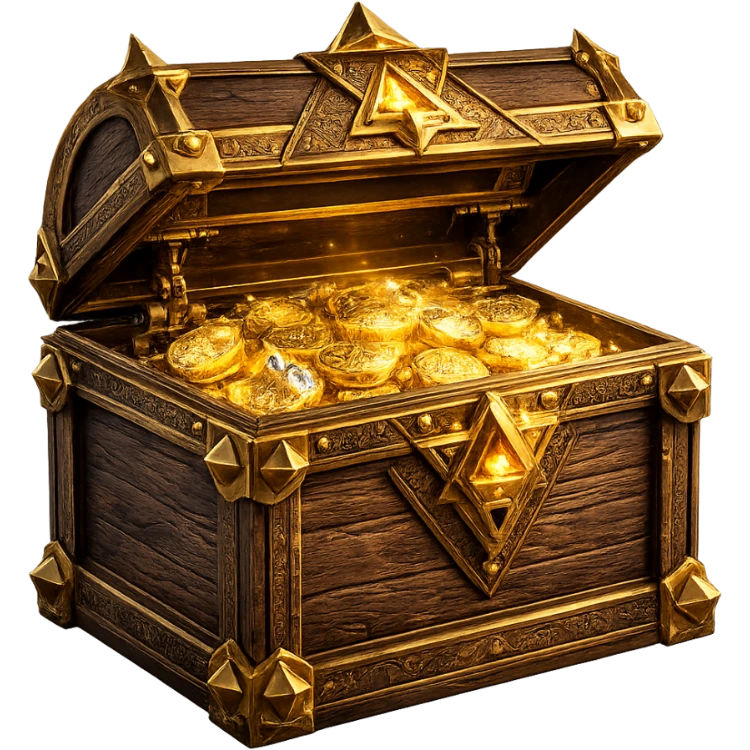
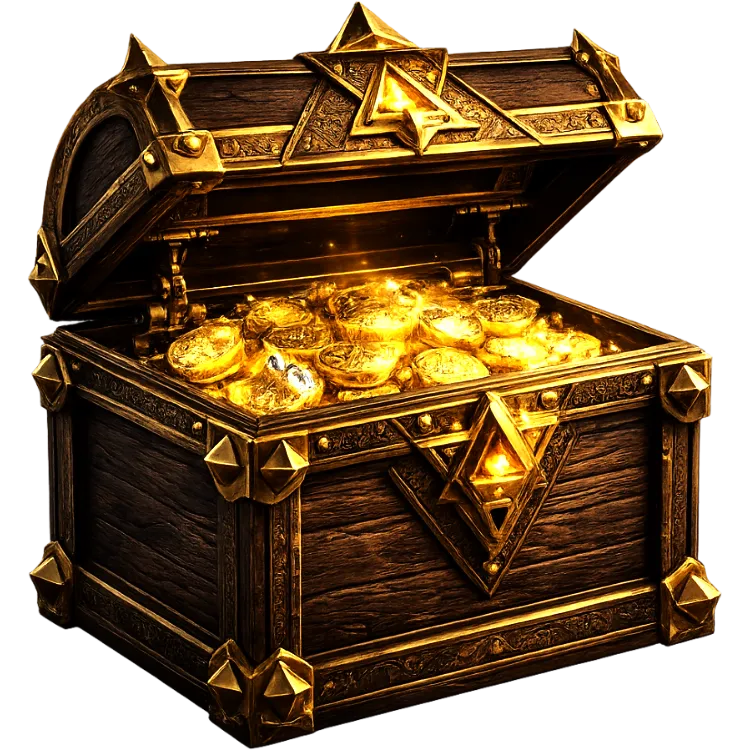
Make assigned public ID chips obvious and removable
Improves assigned public identity visibility and management across Runtime/Auth, Admin Dashboard, and Creator account settings. Adds clear primary/secondary chip rendering, clickable secondary-ID unassign flows with required reason notes, locked primary IDs, and polished inline assignment controls across `/economy`, `/progression`, `/users`, `/users/{user_code}`, `/public-identities`, and Creator `/account`.

diff --git a/css/creator-dashboard.css b/css/creator-dashboard.css
@@ -4450,6 +4450,57 @@ h3 {
   flex-wrap: wrap;
 }
 
+.creator-public-identity-chip {
+  display: inline-flex;
+  align-items: center;
+  gap: 5px;
+  min-height: 22px;
+  max-width: 100%;
+  padding: 2px 8px;
+  border: 1px solid rgba(56, 189, 248, 0.38);
+  border-radius: 999px;
+  background: rgba(14, 165, 233, 0.16);
+  color: #dff7ff;
+  font: inherit;
+  font-size: 11px;
+  line-height: 1.2;
+  letter-spacing: 0;
+  white-space: nowrap;
+}
+
+.creator-public-identity-chip span,
+.creator-public-identity-chip em {
+  font-size: 9px;
+  font-style: normal;
+  font-weight: 800;
+  text-transform: uppercase;
+  color: rgba(226, 232, 240, 0.74);
+}
+
+.creator-public-identity-chip.is-primary {
+  border-color: rgba(250, 204, 21, 0.38);
+  background: rgba(250, 204, 21, 0.12);
+  color: #fef3c7;
+}
+
+.creator-public-identity-chip.is-locked {
+  border-color: rgba(148, 163, 184, 0.3);
+  background: rgba(148, 163, 184, 0.12);
+  color: rgba(226, 232, 240, 0.82);
+}
+
+button.creator-public-identity-chip {
+  cursor: pointer;
+}
+
+button.creator-public-identity-chip:hover,
+button.creator-public-identity-chip:focus-visible {
+  border-color: rgba(56, 189, 248, 0.82);
+  background: rgba(14, 165, 233, 0.26);
+  outline: none;
+  box-shadow: 0 0 0 2px rgba(14, 165, 233, 0.2);
+}
+
 .platform-identity-row-main {
   display: grid;
   gap: 6px;

diff --git a/js/account-settings.js b/js/account-settings.js
@@ -1689,19 +1689,29 @@
         identity.assigned_at ? `Assigned: ${escapeHtml(identity.assigned_at)}` : "",
       ].filter(Boolean);
       const removable = !identity.primary && identity.removable_by_account_owner === true;
+      const chipTitle = [
+        identity.primary ? "Primary public identity" : "Assigned secondary public identity",
+        identity.assignment_source ? `Source: ${identity.assignment_source.replace(/[_-]+/g, " ")}` : "",
+        identity.assigned_at ? `Assigned: ${identity.assigned_at}` : "",
+        identity.source_platform ? `Platform: ${platformIdentityLabel(identity.source_platform)}` : "",
+        identity.source_user_id ? `Source user: ${identity.source_user_id}` : "",
+        identity.source_channel_scope ? `Scope: ${identity.source_channel_scope}` : "",
+      ].filter(Boolean).join(" · ");
+      const chipMarkup = identity.primary
+        ? `<span class="creator-public-identity-chip is-primary" title="${escapeHtml(chipTitle)}"><span aria-hidden="true">Locked</span>${escapeHtml(identity.identity_code)}<em>Primary</em></span>`
+        : removable
+          ? `<button class="creator-public-identity-chip is-secondary" type="button" title="${escapeHtml(`${chipTitle} · Click to unassign`)}" data-public-identity-unassign="${escapeHtml(identity.identity_code)}">${escapeHtml(identity.identity_code)}<em>Unassign</em></button>`
+          : `<span class="creator-public-identity-chip is-secondary is-locked" title="${escapeHtml(chipTitle)}">${escapeHtml(identity.identity_code)}<em>Assigned</em></span>`;
       return `
         <article class="platform-identity-row" data-public-identity-code="${escapeHtml(identity.identity_code)}">
           <div class="platform-identity-row-main">
             <div class="platform-identity-row-title">
-              <strong>${escapeHtml(identity.identity_code)}</strong>
+              ${chipMarkup}
               <span class="status-pill ${identity.primary ? "success" : "subtle"}">${escapeHtml(label)}</span>
               ${identity.protected || identity.primary ? `<span class="status-pill warning">Protected</span>` : ""}
             </div>
             <p>${sourceBits.join(" · ") || "StreamSuites account primary identity."}</p>
             <p class="account-note">${metaBits.join(" · ") || "No assignment metadata returned."}</p>
-          </div>
-          <div class="account-provider-actions">
-            ${removable ? `<button class="creator-button secondary danger" type="button" data-public-identity-unassign="${escapeHtml(identity.identity_code)}">Unassign</button>` : ""}
           </div>
         </article>
       `;
@@ -1737,13 +1747,18 @@
   async function unassignPublicIdentity(identityCode) {
     const identity = state.publicIdentities.find((item) => item.identity_code === identityCode);
     if (!identity || identity.primary || state.publicIdentitiesSaving) return;
-    if (!window.confirm(`Unassign public identity ${identity.identity_code} from this account? Historical ledger records are not deleted.`)) {
+    const reason = coerceText(window.prompt?.(`Unassign public identity ${identity.identity_code} from this account?\n\nHistorical ledger records are not deleted.\n\nRequired reason/note:`) || "");
+    if (!reason) {
+      setMessage("[data-public-identity-status=\"true\"]", "Unassign requires a reason/note.", "warning");
       return;
     }
     state.publicIdentitiesSaving = true;
     setMessage("[data-public-identity-status=\"true\"]", "Unassigning public identity through Runtime/Auth...", "neutral");
     try {
-      const payload = await requestJson(`${ACCOUNT_PUBLIC_IDENTITIES_ENDPOINT}/${encodeURIComponent(identity.identity_code)}`, { method: "DELETE" });
+      const payload = await requestJson(`${ACCOUNT_PUBLIC_IDENTITIES_ENDPOINT}/${encodeURIComponent(identity.identity_code)}`, {
+        method: "DELETE",
+        body: JSON.stringify({ reason })
+      });
       state.publicIdentities = (Array.isArray(payload?.identities) ? payload.identities : [])
         .map(normalizePublicIdentity)
         .filter(Boolean);

diff --git a/BUMP_NOTES.md b/BUMP_NOTES.md
@@ -2,6 +2,9 @@
 
 ## CURRENT VER= 0.4.2-alpha / PENDING VER= 0.4.3-alpha
 
+- Refined Creator `/account` public identity display to use compact chips. The primary public ID now renders as locked/non-removable, secondary assigned IDs render as removable chips only when Runtime/Auth marks them owner-removable, and self-service unassign now requires a reason/note sent to `DELETE /api/account/public-identities/{identity_code}` before refreshing the account identity list.
+- Human note: creators can clearly see which secondary public IDs are attached and must explain removals; primary IDs and historical ledgers remain protected.
+
 - Added Creator `/account` assigned public identity management through Runtime/Auth `GET /api/account/public-identities` and `DELETE /api/account/public-identities/{identity_code}`. The account page now shows the protected primary public ID, assigned secondary public IDs, source/platform and assignment metadata when returned, a compact roll-up explanation, and an unassign action only when the backend marks the secondary identity removable by the account owner.
 - Human note: creators can see which public/chat identities contribute to their StreamSuites account and can remove only safe secondary assignments; primary public IDs and historical ledger rows stay protected.
 

diff --git a/README.md b/README.md
@@ -56,7 +56,7 @@ flowchart TD
 - The `/wheels` route is now a real creator-owned wheel artifact manager that lists, creates, imports, edits, exports, and saves wheel artifacts only through the authoritative runtime/Auth wheel API.
 - The creator wheel manager now stays API-first and live via the runtime/Auth wheel SSE stream, so open `/wheels` tabs refresh saved list/editor state after create, import, and update events instead of waiting for stale mirrored exports or manual reloads.
 - The separate `/leaderboards` route is now the truthful creator-facing scaffold for future leaderboard artifacts, while legacy `/scoreboards` compatibility now resolves there instead of duplicating the wheel manager.
-- The account route now keeps integrations as a compact snapshot and link-out surface rather than the primary control center, while consuming Runtime/Auth contracts for removable manual platform aliases, assigned public identity ownership/unassignment, and owned scoped livechat XP roll-up settings.
+- The account route now keeps integrations as a compact snapshot and link-out surface rather than the primary control center, while consuming Runtime/Auth contracts for removable manual platform aliases, assigned public identity ownership/unassignment with required Creator-side reason prompts, and owned scoped livechat XP roll-up settings.
 - A dedicated `/integrations` hub now acts as the full-page creator readiness surface, while per-platform routes carry the actionable setup and management workflows.
 - Creator media editing now prefers upload-from-device for avatar and cover updates while preserving manual URL inputs as secondary paths.
 - Creator account settings currently surface canonical slug editing and visibility, StreamSuites public profile visibility, FindMeHere listing controls, truthful dual share previews, reserved media fields including background image URL, bio/about, grounded public social links, and a small pointer over to Preferences for moderator/community controls.